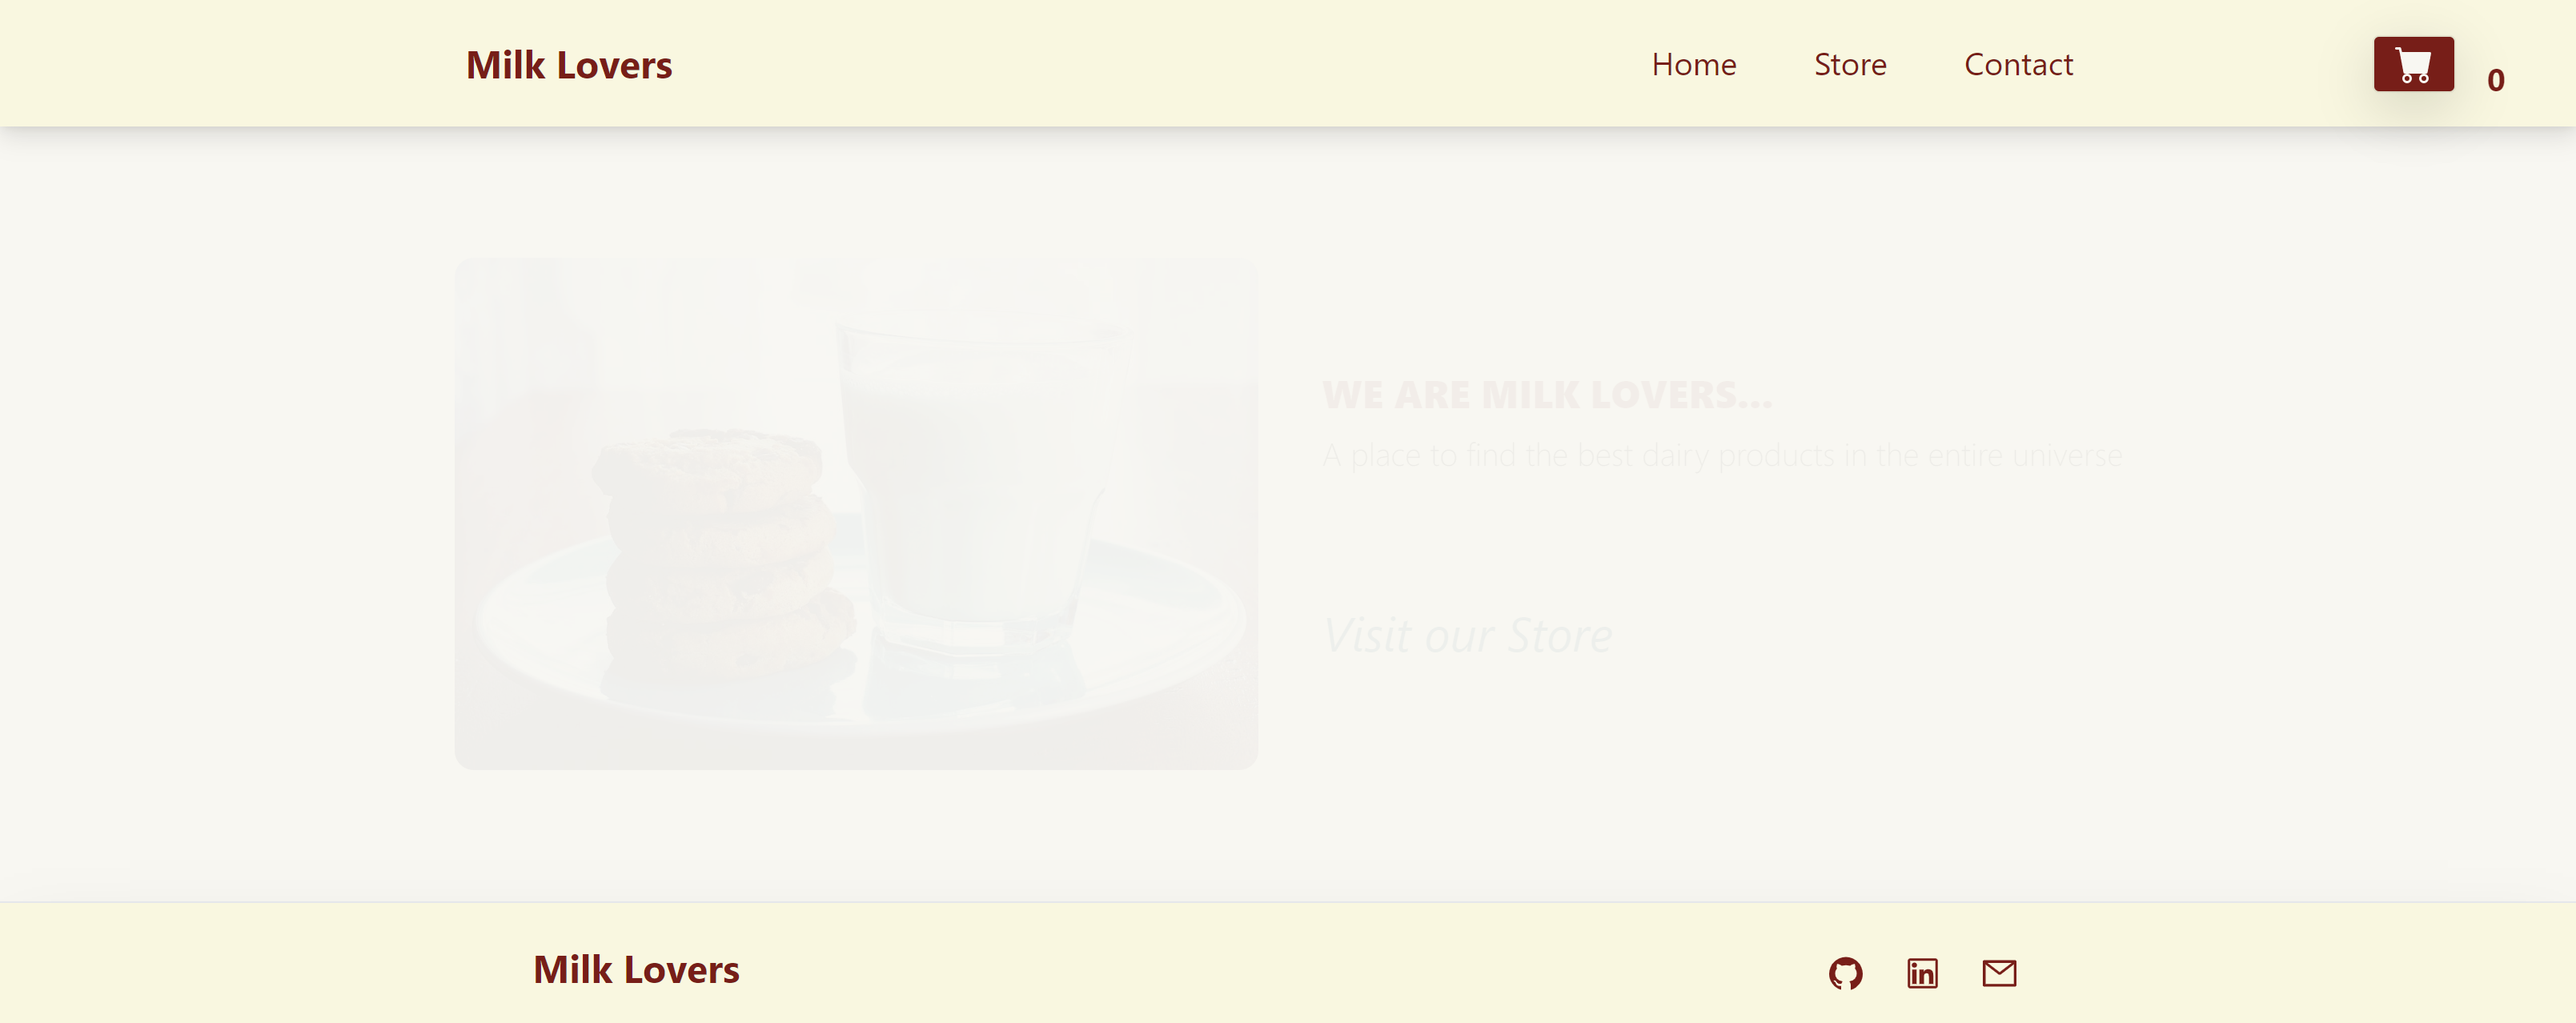
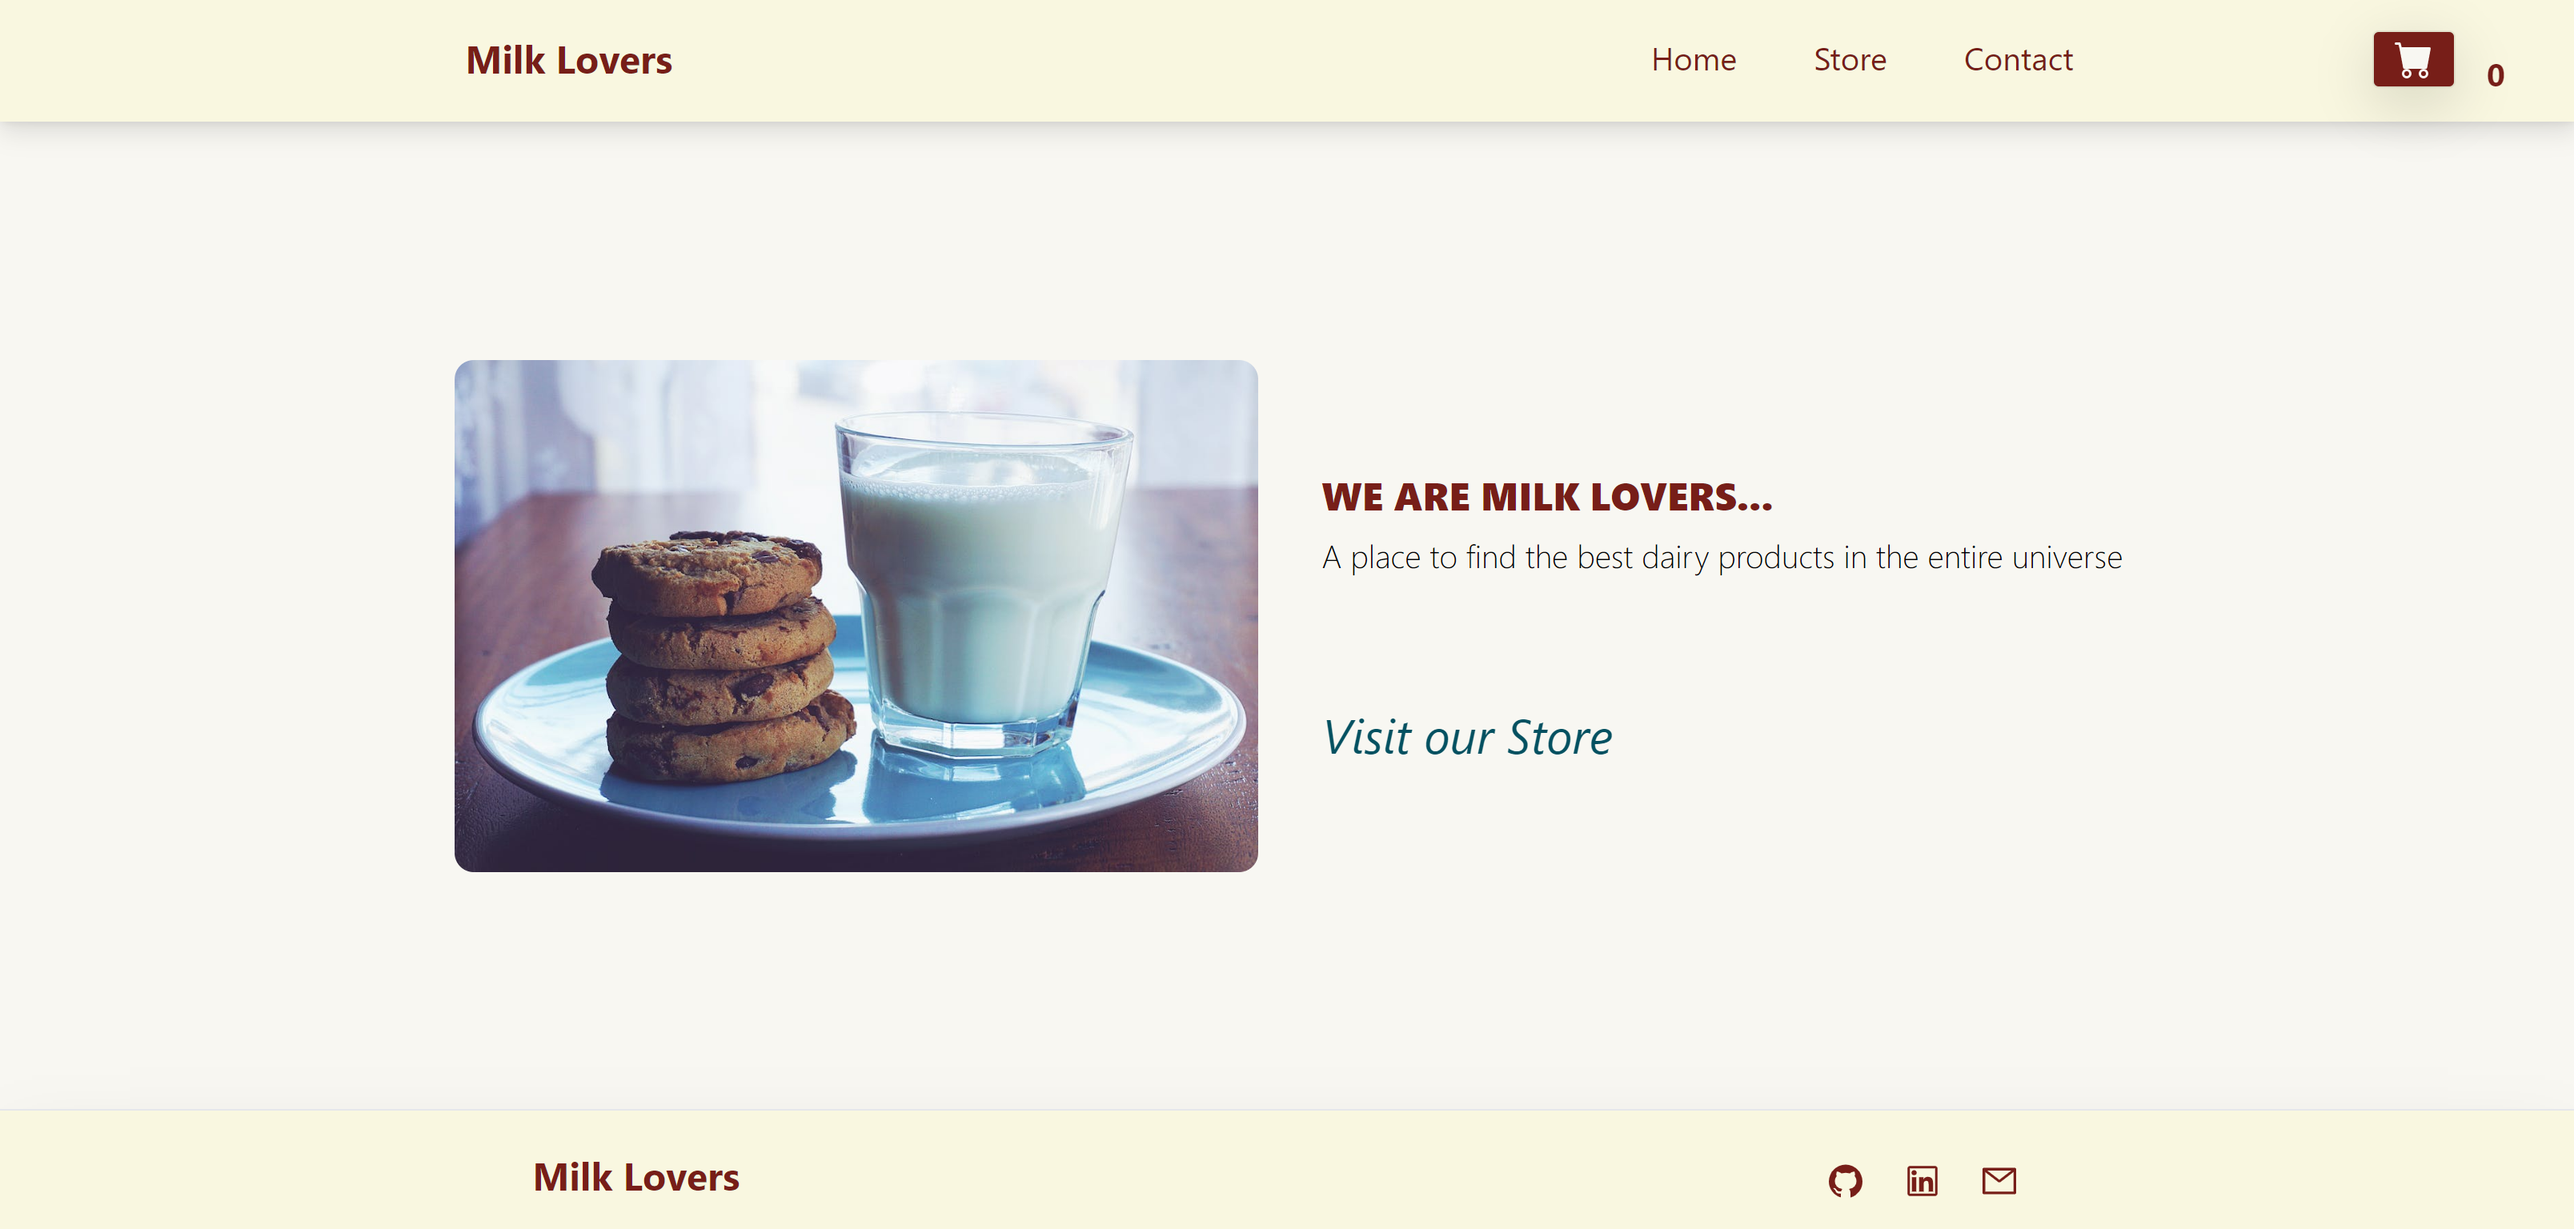
updated README

diff --git a/src/index.css b/src/index.css
@@ -134,14 +134,14 @@ main {
     color: var(--ColorRegular);
   }
 
-  .jumbo {
+  /* .jumbo {
     animation: fadeIn 2000ms ease-out forwards;
   }
 
   .store,
   .contact {
     animation: fadeIn 1000ms ease-out forwards;
-  }
+  } */
 }
 
 @keyframes translateX {
